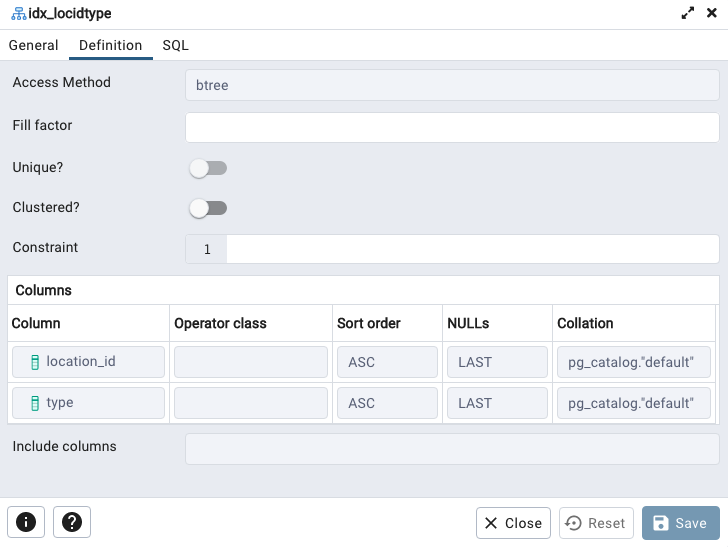
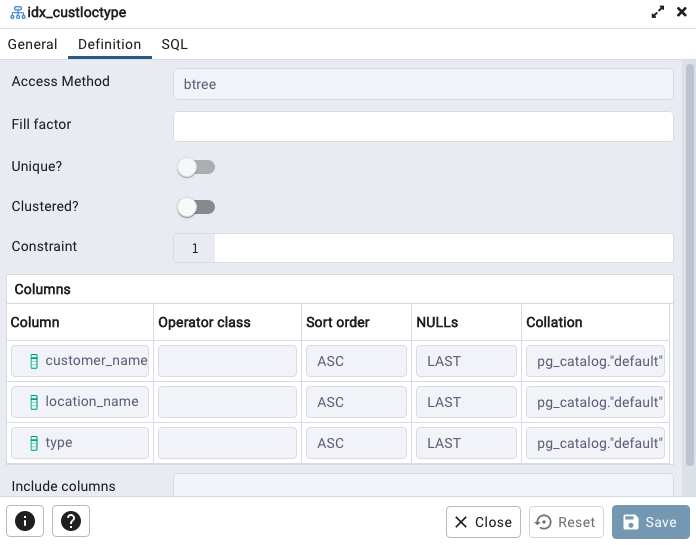
Add CustomerId, CustomerName, LocationName columns

diff --git a/pkg/models/connector.go b/pkg/models/connector.go
@@ -8,13 +8,17 @@ import (
 )
 
 type Connector struct {
-	Id          string    `json:"id,omitempty" gorm:"primaryKey"`
-	LocationId  string    `json:"location_id,omitempty" gorm:"index:idx_locidtype,priority:1"`
-	Type        string    `json:"type,omitempty" gorm:"index:idx_locidtype,priority:2"`
-	ChargeSpeed string    `json:"charge_speed,omitempty"`
-	Active      bool      `json:"active,omitempty"`
-	CreatedAt   time.Time `json:"created_at,omitempty" gorm:"autoUpdateTime"`
-	UpdatedAt   time.Time `json:"updated_at,omitempty" gorm:"autoUpdateTime"`
+	Id           string    `json:"id,omitempty" gorm:"primaryKey"`
+	Name         string    `json:"name,omitempty" gorm:"unique"`
+	CustomerId   string    `json:"customer_id,omitempty"`
+	CustomerName string    `json:"customer_name,omitempty" gorm:"index:idx_custloctype,priority:1"`
+	LocationId   string    `json:"location_id,omitempty"`
+	LocationName string    `json:"location_name,omitempty" gorm:"index:idx_custloctype,priority:2"`
+	Type         string    `json:"type,omitempty" gorm:"index:idx_custloctype,priority:3"`
+	ChargeSpeed  string    `json:"charge_speed,omitempty"`
+	Active       bool      `json:"active,omitempty"`
+	CreatedAt    time.Time `json:"created_at,omitempty" gorm:"autoUpdateTime"`
+	UpdatedAt    time.Time `json:"updated_at,omitempty" gorm:"autoUpdateTime"`
 }
 
 func (c Connector) GenerateId() string {

diff --git a/pkg/controllers/restapi/queryparams.go b/pkg/controllers/restapi/queryparams.go
@@ -10,11 +10,12 @@ import (
 )
 
 var validQueryParams = map[string]bool{
-	"location_id": true,
-	"type":        true,
-	"sort":        true,
-	"limit":       true,
-	"page":        true,
+	"location_name": true,
+	"customer_name": true,
+	"type":          true,
+	"sort":          true,
+	"limit":         true,
+	"page":          true,
 }
 
 func ValidateAndGetQueryParams(url *url.URL) (models.ConnectorQueryParams, error) {
@@ -52,11 +53,12 @@ func ValidateAndGetQueryParams(url *url.URL) (models.ConnectorQueryParams, error
 		}
 	}
 	queryParams := models.ConnectorQueryParams{
-		LocationIds: query["location_id"],
-		Types:       query["type"],
-		Sort:        sort,
-		Limit:       limit,
-		Page:        page,
+		CustomerNames: query["customer_name"],
+		LocationNames: query["location_name"],
+		Types:         query["type"],
+		Sort:          sort,
+		Limit:         limit,
+		Page:          page,
 	}
 
 	return queryParams, nil

diff --git a/pkg/data/postgres/filters.go b/pkg/data/postgres/filters.go
@@ -12,11 +12,13 @@ func FilterConnectors(db *gorm.DB, qp models.ConnectorQueryParams, pagedConnecto
 	result := db.Session(&gorm.Session{})
 
 	// filter
-	if len(qp.LocationIds) > 0 && len(qp.Types) > 0 {
-		result = result.Where("location_id IN ? AND type IN ?", qp.LocationIds, qp.Types)
-	} else if len(qp.LocationIds) > 0 {
-		result = result.Where("location_id IN ?", qp.LocationIds)
-	} else if len(qp.Types) > 0 {
+	if len(qp.CustomerNames) > 0 {
+		result = result.Where("customer_name IN ?", qp.CustomerNames)
+	}
+	if len(qp.LocationNames) > 0 {
+		result = result.Where("location_name IN ?", qp.LocationNames)
+	}
+	if len(qp.Types) > 0 {
 		result = result.Where("type IN ?", qp.Types)
 	}
 

diff --git a/pkg/data/postgres/scopes.go b/pkg/data/postgres/scopes.go
@@ -19,9 +19,9 @@ func Paginate(connectors *[]*models.Connector, cp *models.ConnectorPagination, q
 	cp.TotalPages = totalPages
 
 	if qp.Sort {
-		cp.Sort = "location_id, type"
+		cp.Sort = "customer_name, location_name, type"
 		return func(db *gorm.DB) *gorm.DB {
-			return db.Offset(cp.GetOffset()).Limit(cp.GetLimit()).Order("location_id").Order("type")
+			return db.Offset(cp.GetOffset()).Limit(cp.GetLimit()).Order("customer_name").Order("location_name").Order("type")
 		}
 	}
 

diff --git a/pkg/models/queryparams.go b/pkg/models/queryparams.go
@@ -1,9 +1,10 @@
 package models
 
 type ConnectorQueryParams struct {
-	LocationIds []string
-	Types       []string
-	Sort        bool // if true { sort by 1.location_id, 2.type } else { don't sort }
-	Limit       int
-	Page        int
+	LocationNames []string
+	CustomerNames []string
+	Types         []string
+	Sort          bool // if true { sort by 1.customer_name, 2.location_name, 3.type } else { don't sort }
+	Limit         int
+	Page          int
 }

diff --git a/docs/db.md b/docs/db.md
@@ -9,7 +9,7 @@ Model:
 
 Sample DB row:
 
-![Sample DB row](./images/sample-db-view.png?raw=true "Sample DB row")
+![Sample DB row (json)](./images/sample-db-view.png?raw=true "Sample DB row (json)")
 
 
 
